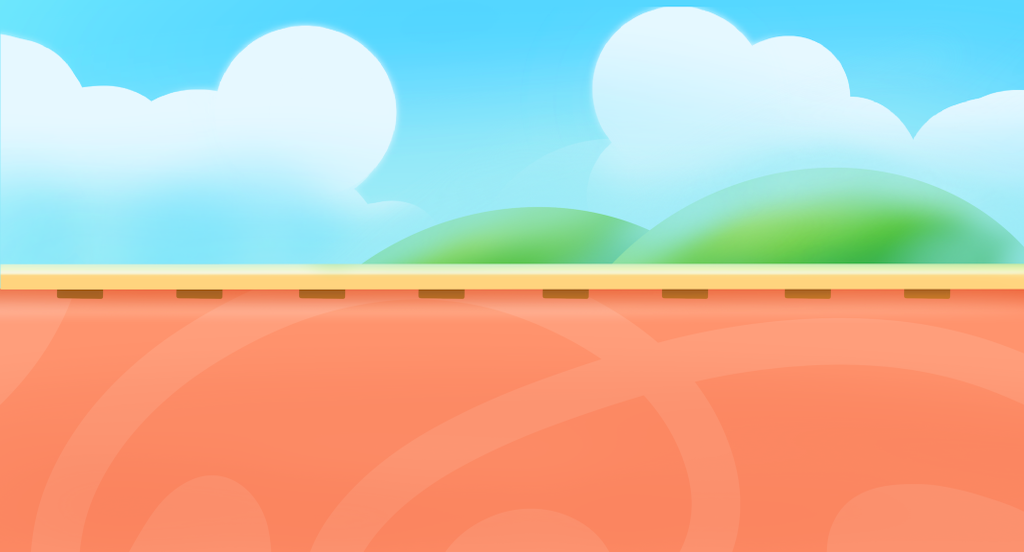
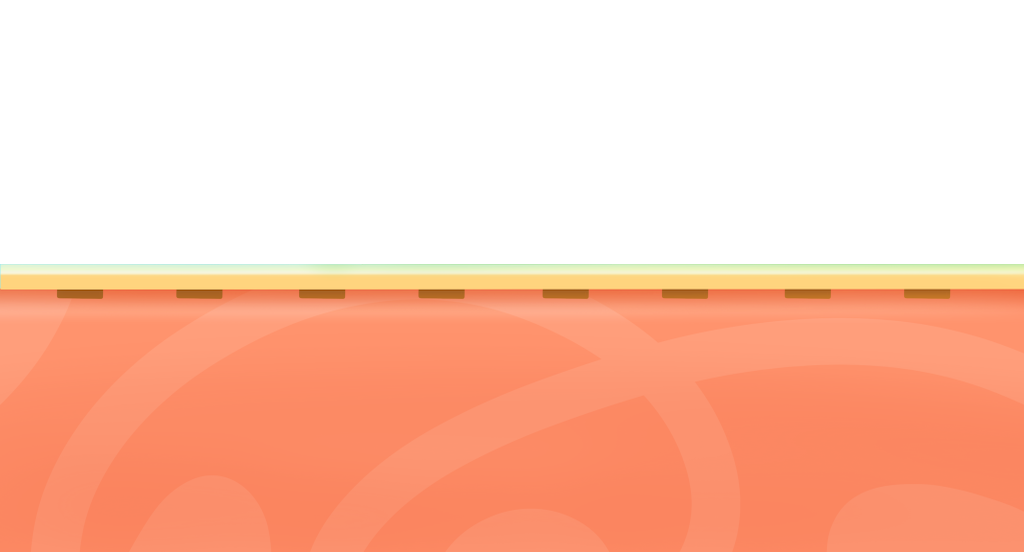
完成视差背景

diff --git a/src/scenes/Game11/Play.ts b/src/scenes/Game11/Play.ts
@@ -1,7 +1,7 @@
 import 'phaser';
 import { Game11DataItem, } from '../../interface/Game11';
 import { cover, rotateTips, Bounds, isHit } from '../../Public/jonny/core';
-import { Button, ButtonContainer, ButtonMusic, ButtonExit, SellingGold, Gold, SuccessBtn,TryAginListenBtn } from '../../Public/jonny/components';
+import { Button, ButtonContainer, ButtonMusic, ButtonExit, SellingGold, Gold, SuccessBtn, TryAginListenBtn } from '../../Public/jonny/components';
 import { EASE } from '../../Public/jonny/Animate';
 import PlanAnims from '../../Public/PlanAnims';
 import TipsParticlesEmitter from '../../Public/TipsParticlesEmitter';
@@ -23,12 +23,14 @@ export default class Game11PlayScene extends Phaser.Scene {
   private status: string;//存放过程的状态
 
   private ccData: Array<Game11DataItem> = [];
-  private oneWheel:boolean = false;  //一轮是否结束
+  private oneWheel: boolean = false;  //一轮是否结束
   private times: number = 0;  //次数
 
   //静态开始
   private bgm: Phaser.Sound.BaseSound; //背景音乐
   private clickSound: Phaser.Sound.BaseSound; //点击音效
+  private bgFull1: Phaser.GameObjects.Image; //背景图片 
+  private bgFull2: Phaser.GameObjects.Image; //背景图片 
   private bg1: Phaser.GameObjects.Image; //背景图片
   private bg2: Phaser.GameObjects.Image; //背景图片
   private bg3: Phaser.GameObjects.Image; //背景图片
@@ -55,27 +57,31 @@ export default class Game11PlayScene extends Phaser.Scene {
    * stage
    */
   private gameStage: Stage;
+
   /**
-   * bg
+   * 云背景
    */
   private layer0: Phaser.GameObjects.Container;
+
   /**
-   *trainbox 下,
+   * 铁轨背景
    */
   private layer1: Phaser.GameObjects.Container;
+
   /**
-   *trainbox 上,
+   * 火车，火车头
    */
   private layer2: Phaser.GameObjects.Container;
-  /**
-   * 火车头
-   */
-  private layer3: Phaser.GameObjects.Container;
 
   /**
    * UI
    */
-  private layer4: Phaser.GameObjects.Container;
+  private layer3: Phaser.GameObjects.Container;
+
+  // /**
+  //  * UI
+  //  */
+  // private layer4: Phaser.GameObjects.Container;
 
   constructor() {
     super({
@@ -111,7 +117,7 @@ export default class Game11PlayScene extends Phaser.Scene {
 
   update(time: number, delta: number): void {
     this.btnSound.mountUpdate();
-    if(!this.oneWheel){
+    if (!this.oneWheel) {
       this.eliminateJitter();
     }
   }
@@ -139,7 +145,7 @@ export default class Game11PlayScene extends Phaser.Scene {
   /**
    * 首次才创建
    */
-  firstCreate():void{
+  firstCreate(): void {
     this.bgm = this.sound.add('bgm');
     this.bgm.addMarker({
       name: "start",
@@ -164,38 +170,45 @@ export default class Game11PlayScene extends Phaser.Scene {
       this[`layer${i}`] = new Phaser.GameObjects.Container(this);
       this[`layer${i}`].setDepth(1 + i)
     }
-    this.gameStage.add([this.layer0, this.layer1, this.layer2, this.layer3]);
+    this.gameStage.add([this.layer1, this.layer2]);
+
+    this.add.existing(this.layer0);
     this.add.existing(this.gameStage);
-    this.add.existing(this.layer4);
+    this.add.existing(this.layer3);
 
     // this.matter.world.setBounds(100, 0, 1024*3, 520);
 
+    this.bgFull1 = new Phaser.GameObjects.Image(this, 0, 0, "bgFull").setOrigin(0);
+    this.bgFull2 = new Phaser.GameObjects.Image(this, 1024, 0, "bgFull").setOrigin(0).setFlipX(true);
+    this.layer0.add([this.bgFull1, this.bgFull2]).setDepth(0);
+
     this.bg1 = new Phaser.GameObjects.Image(this, 0, 0, "bg").setOrigin(0);
     this.bg2 = new Phaser.GameObjects.Image(this, 1024, 0, "bg").setOrigin(0).setFlipX(true);
-    this.bg3 = new Phaser.GameObjects.Image(this, 1024*2, 0, "bg").setOrigin(0);
-    this.bg4 = new Phaser.GameObjects.Image(this, 1024*3, 0, "bg").setOrigin(0).setFlipX(true);
+    this.bg3 = new Phaser.GameObjects.Image(this, 1024 * 2, 0, "bg").setOrigin(0);
+    this.bg4 = new Phaser.GameObjects.Image(this, 1024 * 3, 0, "bg").setOrigin(0).setFlipX(true);
+    this.layer1.add([this.bg1, this.bg2, this.bg3, this.bg4]);
+
     this.btnExit = new ButtonExit(this);
     this.btnSound = new ButtonMusic(this);
     this.originalSoundBtn = new Button(this, 25 + 60 * 0.5, 467 + 60 * 0.5, "originalSoundBtn").setAlpha(1);
     this.tryAginListenBtn = new TryAginListenBtn(this, 89, 435 + 50);
-    this.layer0.add([this.bg1,this.bg2,this.bg3,this.bg4]);
-    this.layer4.add([this.btnExit, this.btnSound, this.originalSoundBtn, this.tryAginListenBtn]);
-    this.originalSoundBtn.on("pointerdown", this.playSentence.bind(that));
+    this.layer3.add([this.btnExit, this.btnSound, this.originalSoundBtn, this.tryAginListenBtn]);
 
+    this.originalSoundBtn.on("pointerdown", this.playSentence.bind(that));
 
     this.clickSound = this.sound.add('click');
     this.planAnims = new PlanAnims(this, this.ccData.length);
     this.gold = new Gold(this, goldValue);   //设置金币
     this.successBtn = new SuccessBtn(this, 939 + 60 * 0.5, 552 * 0.5);
     this.successBtn.on("pointerdown", this.successBtnPointerdown.bind(this));
-    this.layer4.add([this.successBtn, this.gold]);
+    this.layer3.add([this.successBtn, this.gold]);
 
     //静止物体
-    this.well[0] = this.matter.add.rectangle(1024 * 4 * 0.5, 550, 1024 * 4, 50, { isStatic: true, density: 100, restitution: 0, frictionStatic: 0, label: "ground" ,render:{visible:true}});  //地面
+    this.well[0] = this.matter.add.rectangle(1024 * 4 * 0.5, 550, 1024 * 4, 50, { isStatic: true, density: 100, restitution: 0, frictionStatic: 0, label: "ground", render: { visible: true } });  //地面
 
     this.well[1] = this.matter.add.rectangle(326.5, 136.65, 15, 271.2, { isStatic: true, density: 100, restitution: 0, frictionStatic: 0, label: "leftWell" });  //墙
 
-    this.well[2] = this.matter.add.rectangle(1024 * 4 * 0.5, 292, 1024 * 4, 20, { isStatic: true, density: 100, restitution: 0, frictionStatic: 0, label: "rails",render: { visible: true }});  //铁轨
+    this.well[2] = this.matter.add.rectangle(1024 * 4 * 0.5, 292, 1024 * 4, 20, { isStatic: true, density: 100, restitution: 0, frictionStatic: 0, label: "rails", render: { visible: true } });  //铁轨
 
     this.well[2]._bounds = new Bounds(new Phaser.Geom.Rectangle(
       this.well[2].bounds.min.x,
@@ -203,7 +216,7 @@ export default class Game11PlayScene extends Phaser.Scene {
       this.well[2].bounds.max.x - this.well[2].bounds.min.x,
       this.well[2].bounds.max.y - this.well[2].bounds.min.y
     ));
-    
+
     console.log(this.well[2]);
 
   }
@@ -233,7 +246,7 @@ export default class Game11PlayScene extends Phaser.Scene {
       let trainBox = new TrainBox(this, _x, _y, "trainBox", data.name, _shape.trainBox);
       trainBox.name = data.name;
       this.trainboxs.push(trainBox);
-      this.layer1.add(trainBox);
+      this.layer2.add(trainBox);
     })
 
     let symbolRegExp = /[?!,.]/g;
@@ -244,7 +257,7 @@ export default class Game11PlayScene extends Phaser.Scene {
       let symbolsTrainBox = new TrainBox(this, _tx, _y, "symbolTrainBox", v, _shape.trainBox);
       symbolsTrainBox.name = v;
       this.trainboxs.push(symbolsTrainBox);
-      this.layer1.add(symbolsTrainBox);
+      this.layer2.add(symbolsTrainBox);
     })
 
     //创建用户反馈
@@ -324,7 +337,7 @@ export default class Game11PlayScene extends Phaser.Scene {
     }
 
     function collisionActive(e, obj1, obj2) {
-     
+
     }
 
     function collisionEnd(e, obj1, obj2) {
@@ -337,6 +350,8 @@ export default class Game11PlayScene extends Phaser.Scene {
    * 执行滚动条的互动
    */
   private scrollEvent(): void {
+    let that = this;
+
     let stageShape = new Phaser.Geom.Rectangle(0, 0, 1024 * 4, 552);
     this.gameStage.setInteractive(stageShape, Phaser.Geom.Rectangle.Contains);
     this.input.setDraggable(this.gameStage, true);
@@ -351,9 +366,10 @@ export default class Game11PlayScene extends Phaser.Scene {
       this.x = dragX;
       if (this.x >= 0) {
         this.x = 0;
-      }
-      if (this.x <= 1024 * 3 * -1) {
+      } else if (this.x <= 1024 * 3 * -1) {
         this.x = 1024 * 3 * -1;
+      } else {
+        that.layer0.x = dragX * 0.04;
       }
     }
   }
@@ -373,9 +389,9 @@ export default class Game11PlayScene extends Phaser.Scene {
       this.x = dragX;
       this.y = dragY;
       if (isHit(this.syncBounds(), that.well[2]._bounds)) {
-          if(this.isDrogUp===0){
-            this.isDrogUp = 1;
-          } 
+        if (this.isDrogUp === 0) {
+          this.isDrogUp = 1;
+        }
       }
     }
 
@@ -396,9 +412,9 @@ export default class Game11PlayScene extends Phaser.Scene {
       if (!this.interactive) {
         return false;
       }
-      if(that.checkoutDragEnd() === that.trainboxs.length){     //拖拽结束
-          that.dragEnd();
-      } 
+      if (that.checkoutDragEnd() === that.trainboxs.length) {     //拖拽结束
+        that.dragEnd();
+      }
       this.body.gravity = new Phaser.Math.Vector2(0, 500);
       this.body.isStatic = false;
     }
@@ -414,12 +430,12 @@ export default class Game11PlayScene extends Phaser.Scene {
   /**
    * 检查拖拽是否已经结束
    */
-  private checkoutDragEnd():number{
-     var length:number = 0;
-     this.trainboxs.forEach(trainbox=>{
-      length = length + trainbox.isDrogUp; 
-     })
-     return length;
+  private checkoutDragEnd(): number {
+    var length: number = 0;
+    this.trainboxs.forEach(trainbox => {
+      length = length + trainbox.isDrogUp;
+    })
+    return length;
   }
 
   /**
@@ -427,8 +443,8 @@ export default class Game11PlayScene extends Phaser.Scene {
    */
   private dragEnd(): void {
     // console.log("拖拽结束");
-     this.successBtn.setAlpha(1);
-     this.successBtn.animate.play();
+    this.successBtn.setAlpha(1);
+    this.successBtn.animate.play();
   }
 
   /**
@@ -470,18 +486,18 @@ export default class Game11PlayScene extends Phaser.Scene {
   /**
    * 火车开走
    */
-   private trainboxGetOut():void{
-     //this.locomotivel
+  private trainboxGetOut(): void {
+    //this.locomotivel
     this.oneWheel = true;
-     this.tweens.add(<Phaser.Types.Tweens.TweenBuilderConfig>{
-       targets:new Array(this.locomotivel).concat(<any[]>this.trainboxs),
-       x:-500,
-       duration:1000,
-       onComplete:()=>{
-         this.nextRound();
-       }
-     })
-   } 
+    this.tweens.add(<Phaser.Types.Tweens.TweenBuilderConfig>{
+      targets: new Array(this.locomotivel).concat(<any[]>this.trainboxs),
+      x: -500,
+      duration: 1000,
+      onComplete: () => {
+        this.nextRound();
+      }
+    })
+  }
 
   /**
    * 错误的结果处理
@@ -512,9 +528,9 @@ export default class Game11PlayScene extends Phaser.Scene {
         duration: 500,
         x: trainbox.initPosition.x,
         y: trainbox.initPosition.y,
-        onComplete:()=>{
+        onComplete: () => {
           trainbox.isDrogUp = 0;
-          trainbox.isTrack = false; 
+          trainbox.isTrack = false;
         }
       })
     })

diff --git a/src/scenes/Game11/Load.ts b/src/scenes/Game11/Load.ts
@@ -14,7 +14,7 @@ export default class Game11LoadScene extends Phaser.Scene {
   private _loader: Phaser.Loader.LoaderPlugin;
   private ccData: Array<Game11DataItem> = [];
   private centerText: Phaser.GameObjects.Text; //文本内容
-  private assets:Assets[] = [{"url":"assets/mask/Game11.png","key":"Game11"},{"url":"assets/commonUI/successBtn.png","key":"successBtn"},{"url":"assets/commonUI/btnSoundOff.png","key":"btnSoundOff"},{"url":"assets/commonUI/btnSoundOn.png","key":"btnSoundOn"},{"url":"assets/commonUI/btnExit.png","key":"btnExit"},{"url":"assets/commonUI/originalSoundBtn.png","key":"originalSoundBtn"},{"url":"assets/commonUI/listenAgain.png","key":"listenAgain"},{"url":"assets/Game11/locomotive.png","key":"locomotive"},{"url":"assets/Game11/rope.png","key":"rope"},{"url":"assets/Game11/symbolTrainBox.png","key":"symbolTrainBox"},{"url":"assets/Game11/trainBox.png","key":"trainBox"},{"url":"assets/commonUI/goldValue.png","key":"goldValue"},{"url":"assets/Game11/bg.png","key":"bg"},{"url":"assets/Game11/ground.png","key":"ground"},{"url":"assets/Game11/trackCircle.png","key":"trackCircle"}];
+  private assets:Assets[] = [{"url":"assets/mask/Game11.png","key":"Game11"},{"url":"assets/commonUI/successBtn.png","key":"successBtn"},{"url":"assets/commonUI/btnSoundOff.png","key":"btnSoundOff"},{"url":"assets/commonUI/btnSoundOn.png","key":"btnSoundOn"},{"url":"assets/commonUI/btnExit.png","key":"btnExit"},{"url":"assets/commonUI/originalSoundBtn.png","key":"originalSoundBtn"},{"url":"assets/commonUI/listenAgain.png","key":"listenAgain"},{"url":"assets/Game11/locomotive.png","key":"locomotive"},{"url":"assets/Game11/rope.png","key":"rope"},{"url":"assets/Game11/symbolTrainBox.png","key":"symbolTrainBox"},{"url":"assets/Game11/trainBox.png","key":"trainBox"},{"url":"assets/commonUI/goldValue.png","key":"goldValue"},{"url":"assets/Game11/bg.png","key":"bg"},{"url":"assets/Game11/ground.png","key":"ground"},{"url":"assets/Game11/trackCircle.png","key":"trackCircle"},{"url":"assets/Game11/bgFull.png","key":"bgFull"}];
   constructor() {
     super({
       key: "Game11LoadScene"
